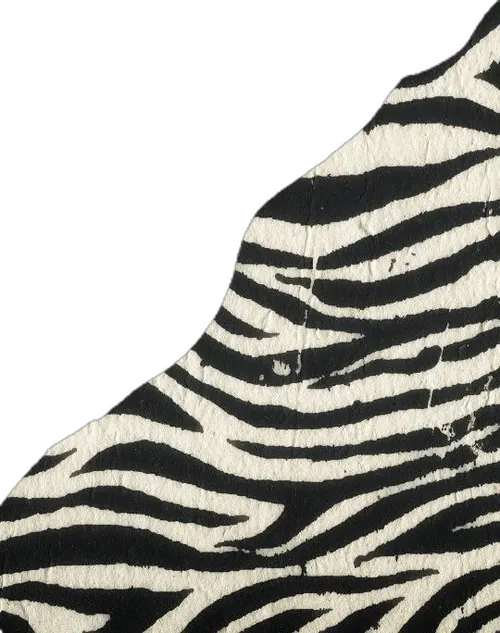
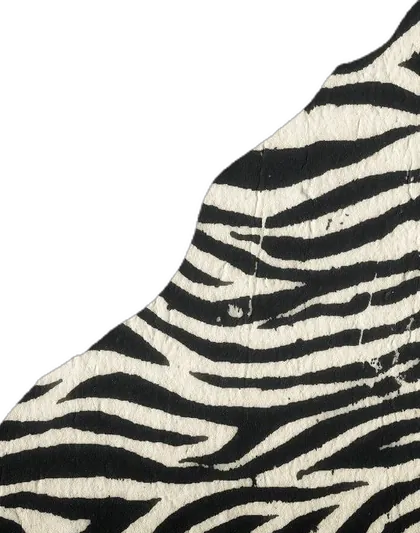
Corazones fuera de la cara; cebra y mosaico pegados a las esquinas

diff --git a/index.html b/index.html
@@ -43,8 +43,8 @@
     color-scheme: dark;
   }
   * { box-sizing: border-box; }
-  html { background: var(--night); }
-  body { background: var(--night); color: var(--ink); font-family: var(--f-body); overflow-x: hidden; }
+  html { background: var(--night); overflow-x: clip; }
+  body { background: var(--night); color: var(--ink); font-family: var(--f-body); overflow-x: clip; }
   body.locked { overflow: hidden; height: 100%; }
   img { display: block; max-width: 100%; height: auto; }
 
@@ -62,7 +62,7 @@
 
   .col { position: relative; z-index: 2; max-width: 480px; margin: 0 auto;
     padding-left: max(16px, env(safe-area-inset-left, 0px)); padding-right: max(16px, env(safe-area-inset-right, 0px));
-    padding-block: 0 96px; display: flex; flex-direction: column; gap: 64px; }
+    padding-block: 0; display: flex; flex-direction: column; gap: 64px; }
   .sticker { position: absolute; pointer-events: none; filter: drop-shadow(0 8px 14px rgba(0,0,0,.45)); }
 
   /* ---------- selector de idioma ---------- */
@@ -118,22 +118,23 @@
   .band::after { content: ""; position: absolute; top: 0; bottom: 0; width: 40%; left: -60%;
     background: linear-gradient(100deg, transparent, rgba(255,255,255,.55), transparent); animation: glint 3.2s ease-in-out 3.5s infinite; }
   @keyframes glint { 0% { left: -60%; } 35%,100% { left: 130%; } }
-  .age { display: flex; align-items: baseline; justify-content: flex-end; gap: 6px; margin: -6px 14px 0 0; position: relative; z-index: 3; }
+  .age { display: flex; align-items: baseline; justify-content: flex-end; gap: 6px; margin: -6px 4px 0 0; position: relative; z-index: 3; }
   .age .at { font-family: var(--f-script); font-size: 3.4rem; color: var(--gold); }
   .age .sixty { font-family: var(--f-slam); font-size: clamp(5rem, 26vw, 7rem); line-height: .9; color: var(--gold); transform: rotate(-6deg); display: inline-block; min-width: 1.1em;
     text-shadow: 5px 5px 0 var(--cherry-deep); }
   .opened .age .sixty { animation: glow 1.6s ease-in-out 3s infinite; }
   @keyframes glow { 50% { text-shadow: 5px 5px 0 var(--cherry-deep), 0 0 26px rgba(233,196,106,.9); } }
-  .photo { position: relative; margin: -70px auto 0; width: 92%; max-width: 420px;
+  .stage { position: relative; margin-top: -20px; }
+  .photo { position: relative; margin: 0 auto; width: 92%; max-width: 420px;
     -webkit-mask-image: linear-gradient(180deg, #000 72%, transparent 98%); mask-image: linear-gradient(180deg, #000 72%, transparent 98%); }
   .opened .photo { animation: breathe 6s ease-in-out 2.6s infinite; }
   @keyframes breathe { 50% { scale: 1.035; } }
-  .heart { position: absolute; width: 112px; height: 104px; display: grid; place-items: center; z-index: 4; }
+  .heart { position: absolute; width: 100px; height: 93px; display: grid; place-items: center; z-index: 4; }
   .heart svg { position: absolute; inset: 0; width: 100%; height: 100%; filter: drop-shadow(0 6px 10px rgba(0,0,0,.5)); }
-  .heart b { position: relative; font-family: var(--f-slam); font-weight: 400; font-size: 1.2rem; line-height: .95; margin-top: -10px; }
-  .h1 { left: 0; top: 358px; }
-  .h2 { right: 0; top: 428px; }
-  .xo { position: absolute; left: 8px; top: 298px; font-family: var(--f-script); font-size: 2.6rem; color: var(--cherry); transform: rotate(-14deg); z-index: 3; }
+  .heart b { position: relative; font-family: var(--f-slam); font-weight: 400; font-size: 1.08rem; line-height: .95; margin-top: -9px; }
+  .h1 { left: -12px; top: 44%; }
+  .h2 { right: -12px; top: 56%; }
+  .xo { position: absolute; left: 0; top: 36%; font-family: var(--f-script); font-size: 2.6rem; color: var(--cherry); transform: rotate(-14deg); z-index: 3; }
   .hero .s-cherry { width: 104px; right: -16px; top: 6px; transform: rotate(14deg); z-index: 2; }
   .hero .s-star { width: 76px; left: -16px; top: 64px; transform: rotate(-18deg); z-index: 2; }
   .hero .s-spark { width: 40px; right: 6px; top: 230px; }
@@ -225,10 +226,9 @@
   .panel .what { font-weight: 900; font-size: .9rem; letter-spacing: .04em; text-shadow: 0 2px 6px rgba(0,0,0,.6); }
   .panel .icon { position: absolute; top: 16px; left: 50%; translate: -50% 0; width: 70%; animation: sway 3s ease-in-out infinite; }
   @keyframes sway { 0%,100% { rotate: -5deg; } 50% { rotate: 5deg; } }
-  .dress .s-zebra { width: 170px; left: -16px; bottom: -60px; z-index: -1; opacity: .9; }
   .dress .s-star { width: 70px; right: -16px; top: -34px; z-index: 3; }
 
-  .rsvp { text-align: center; padding-bottom: 110px; }
+  .rsvp { text-align: center; padding-bottom: clamp(220px, 58vw, 250px); }
   .rsvp .s-disco { position: relative; width: 170px; margin: 0 auto -10px; }
   .rsvp .s-disco.in { animation: drop .9s both cubic-bezier(.3,1.5,.5,1), swing 2.6s .9s ease-in-out infinite; transform-origin: 50% 0; }
   @keyframes swing { 0%,100% { rotate: -6deg; } 50% { rotate: 6deg; } }
@@ -244,9 +244,11 @@
   .rsvp .btn { justify-content: center; width: 100%; font-size: 1rem; }
   .sign { font-family: var(--f-script); font-size: 3.2rem; margin-top: 26px; line-height: 1.1; display: inline-block; }
   .kiss { width: 110px; margin: 6px auto 0; transform: rotate(-12deg); }
-  .mirror { position: absolute; width: 170px; z-index: -1; opacity: .9; }
-  .mirror.tr { right: -16px; top: -40px; transform: rotate(180deg); width: 140px; }
-  .mirror.bl { left: -16px; bottom: -96px; width: 160px; }
+  /* piezas de esquina: sus bordes rectos tocan el borde de la pantalla y el final de la página */
+  .page-end { position: relative; z-index: 1; height: 0; overflow: visible; }
+  .corner { position: absolute; bottom: 0; pointer-events: none; }
+  .corner.bl { left: 0; width: min(170px, 40vw); }
+  .corner.br { right: 0; width: min(150px, 36vw); }
 
   .music { position: fixed; z-index: 20; right: max(14px, env(safe-area-inset-right, 0px)); bottom: max(14px, env(safe-area-inset-bottom, 0px));
     width: 56px; height: 56px; border-radius: 50%; border: 3px solid var(--ink); cursor: pointer;
@@ -304,10 +306,12 @@
     <h2 class="name">DYLKA</h2>
     <div class="band">WILD &amp; CHERRY SWEET</div>
     <div class="age"><span class="at">at</span><span class="sixty" id="sixty">60</span></div>
+    <div class="stage">
     <div class="xo">xoxo</div>
     <div class="heart h1"><svg viewBox="0 0 100 92" aria-hidden="true"><path d="M50 88C20 66 2 50 2 28 2 12 14 2 28 2c10 0 18 6 22 14 4-8 12-14 22-14 14 0 26 10 26 26 0 22-18 38-48 60Z" fill="#c8102e" stroke="#fff8ee" stroke-width="3"/></svg><b data-i18n-html="heartDate">LUNES<br>4 ENE<br>2027</b></div>
     <div class="heart h2"><svg viewBox="0 0 100 92" aria-hidden="true"><path d="M50 88C20 66 2 50 2 28 2 12 14 2 28 2c10 0 18 6 22 14 4-8 12-14 22-14 14 0 26 10 26 26 0 22-18 38-48 60Z" fill="#c8102e" stroke="#fff8ee" stroke-width="3"/></svg><b data-i18n-html="heartAge">MIS<br>60<br>AÑOS</b></div>
     <div class="photo"><img src="img/dylka.webp" alt="Dylka" width="760" height="1107"></div>
+    </div>
     <img class="sticker s-lips" src="img/lips_red.webp" alt="">
     <img class="sticker s-disco" src="img/disco_gold.webp" alt="">
   </section>
@@ -346,7 +350,6 @@
 
   <!-- DRESS CODE -->
   <section class="dress" aria-labelledby="t-dress">
-    <img class="sticker s-zebra" data-rv="left" style="--d:.2s" src="img/zebra.webp" alt="">
     <h2 class="tag" id="t-dress" data-rv="slam">DRESS CODE</h2><br>
     <div class="sub" data-rv="wipe" style="--d:.35s" data-i18n="comeWild">ven salvaje</div>
     <div class="panels">
@@ -360,7 +363,6 @@
 
   <!-- CONFIRMACIÓN -->
   <section class="rsvp" aria-labelledby="t-rsvp">
-    <img class="mirror tr" data-rv="right" src="img/mirror_frame.webp" alt="">
     <img class="sticker s-disco" data-rv="drop" src="img/disco_stars.webp" alt="">
     <h2 class="tag" id="t-rsvp" data-rv="slam" style="--d:.3s" data-i18n="rsvp">CONFIRMA</h2>
     <form id="rsvp" novalidate data-rv="up" style="--d:.2s">
@@ -384,9 +386,12 @@
     <div><div class="sign" data-rv="wipe" data-i18n="love">con amor, Dylka</div></div>
     <img class="kiss" data-rv="stamp" style="--d:.5s" src="img/lips_red.webp" alt="">
     <div class="phrase" data-rv="up" style="--d:.7s">Wild &amp; Cherry Sweet at 60</div>
-    <img class="mirror bl" data-rv="left" style="--d:.3s" src="img/mirror_frame.webp" alt="">
   </section>
 </main>
+<div class="page-end" aria-hidden="true">
+  <img class="corner bl" data-rv="left" style="--d:.2s" src="img/mirror_frame.webp" alt="">
+  <img class="corner br" data-rv="right" style="--d:.35s" src="img/zebra.webp" alt="">
+</div>
 
 <audio id="song" src="audio/fiesta.mp3" preload="auto" loop></audio>
 <button class="music" id="music" type="button" aria-label="Música: activar o pausar" data-i18n-aria="music" aria-pressed="false"></button>
